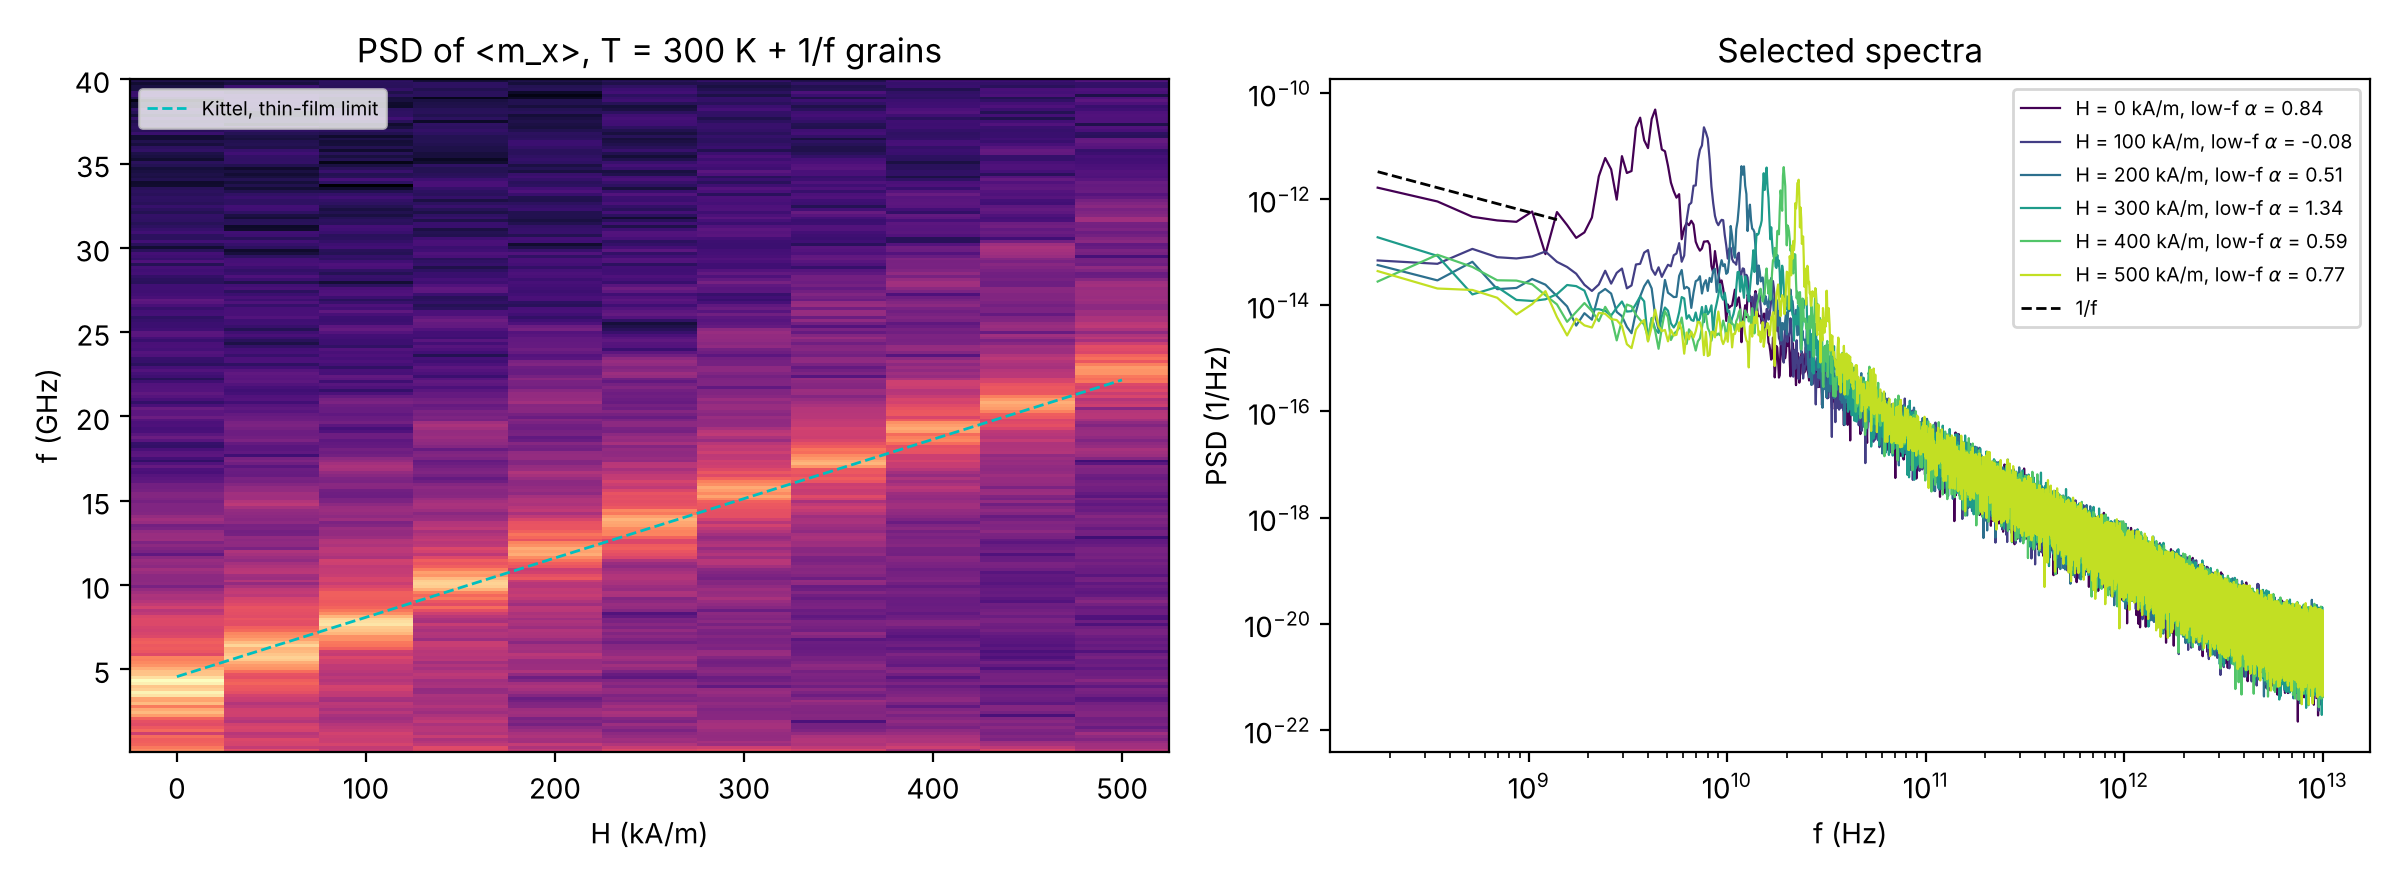
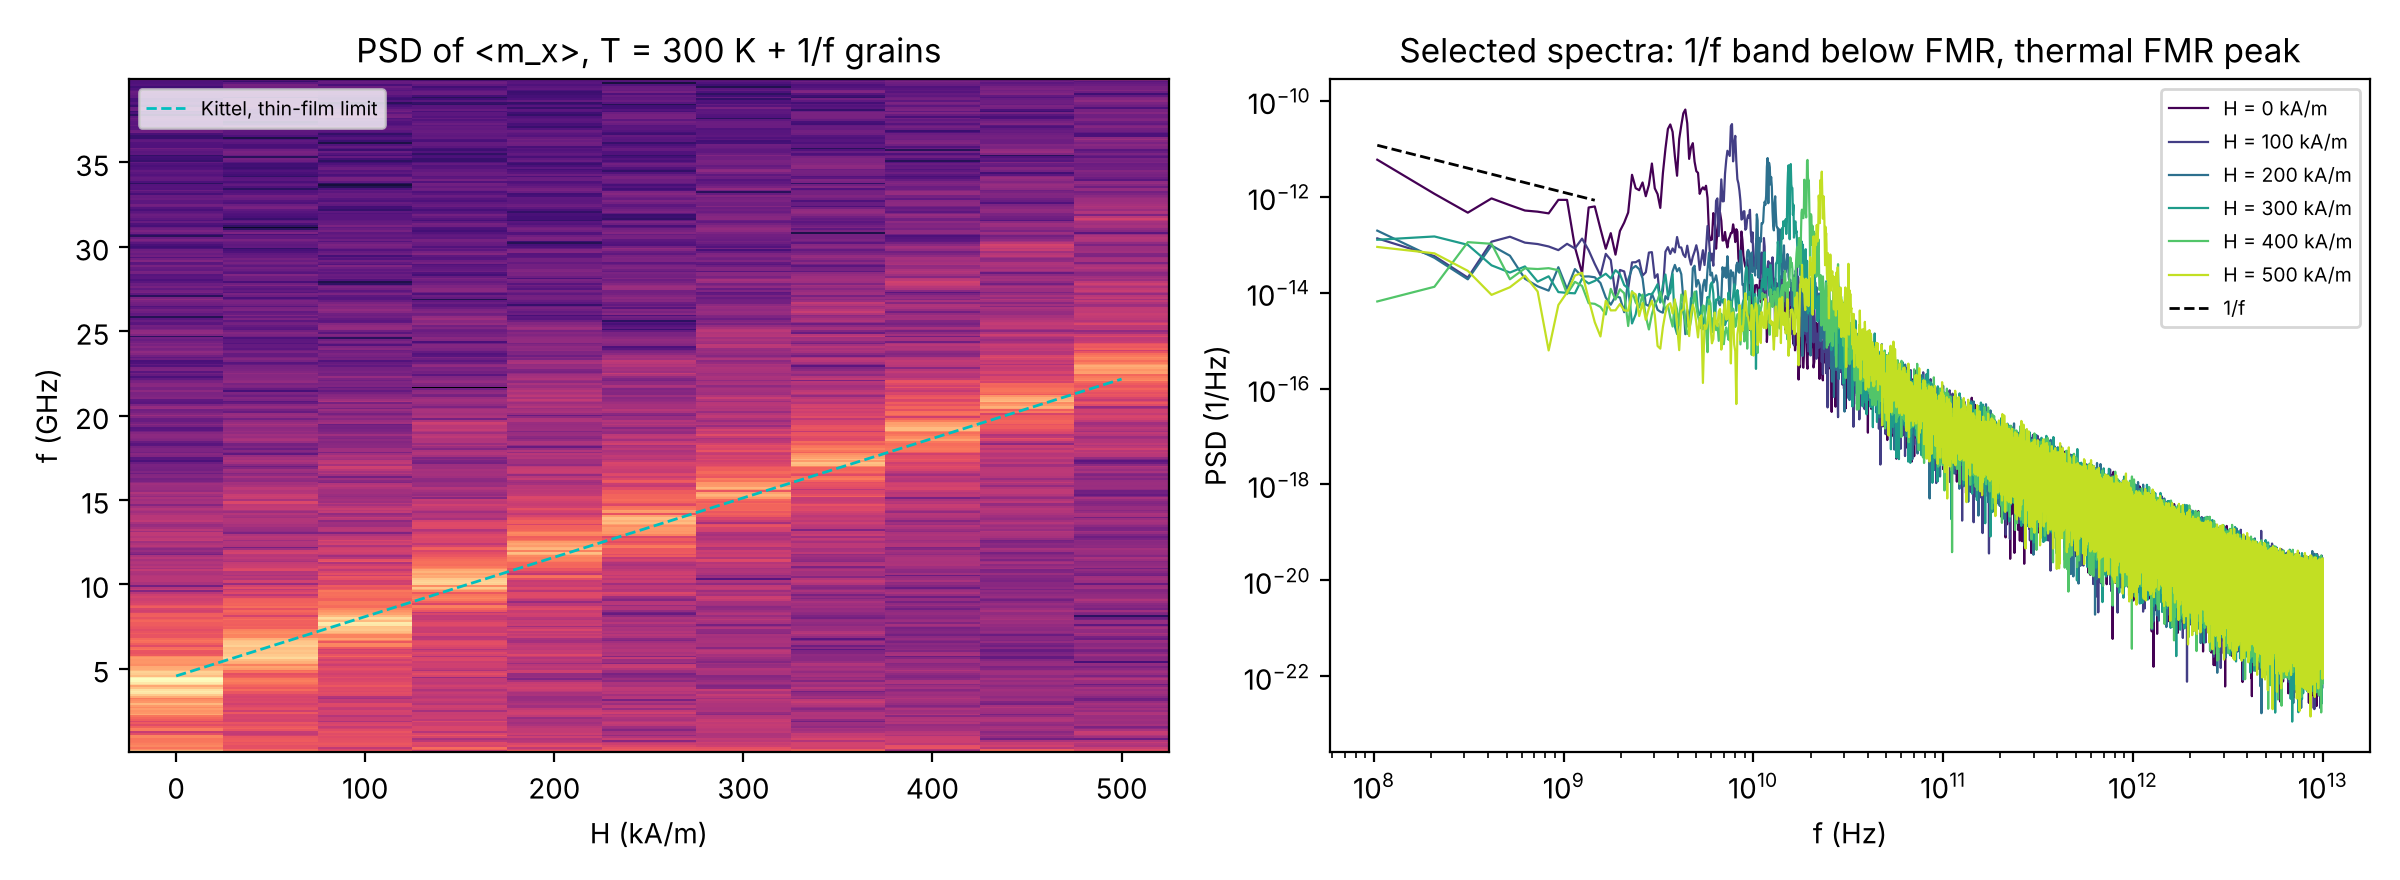
Curated examples: README with timings, rerun figures with final labels
Claude-Session: https://claude.ai/code/session_01LtGkJPcfeRPtRdhtcgikua

diff --git a/examples/curated/README.md b/examples/curated/README.md
@@ -1,0 +1,40 @@
+# Curated examples
+
+Micromagnetic counterparts of the [cmtj curated examples](https://github.com/LemurPwned/cmtj/tree/master/curated-examples),
+focused on noise and spectra. Run from this directory, e.g. `python fmr_basic.py`.
+Figures are written to `figures/`, wall times to `figures/timings.json`.
+
+| example | cmtj counterpart | what it shows |
+| --- | --- | --- |
+| `noise_spectra.py` | `cmtj.models.noise` plots | PSD (with fitted exponent), autocorrelation and traces of every 1/f generator |
+| `seeded_noise_demo.py` | `seeded-noise-demo.py` | same seed gives a bit-identical thermal + 1/f trajectory |
+| `fmr_basic.py` | `fmr-basic.py` | pulse-excited FMR field scan of a PMA element with hysteresis (relax + RK45) |
+| `noise_spectrogram.py` | (new) | spectra driven only by thermal + 1/f grain noise vs field (stochastic Heun); the thermal FMR line follows Kittel, the 1/f band (fit α = 1.02 at H = 0) is pushed under the thermal floor as the field stiffens m |
+
+![noise spectra](figures/noise-spectra.png)
+![seeded noise](figures/seeded-noise-demo.png)
+![fmr](figures/fmr-basic.png)
+![noise spectrogram](figures/noise-spectrogram.png)
+
+## Timings
+
+| example | mesh | work | solver | wall time |
+| --- | --- | --- | --- | --- |
+| noise_spectra | - | 1,048,576 samples x 6 generators | - | 2.53 s |
+| seeded_noise_demo | 16x16x1 | 3 runs x 0.5 ns (15,000 steps) | heun | 3.39 s |
+| fmr_basic | 16x16x1 | 41 fields x 4 ns (327,954 RK45 steps) | relax + rk45 | 213.38 s |
+| noise_spectrogram | 16x16x1 | 11 fields x 16 ns (3,520,000 steps) | heun (dt = 50 fs) | 857.07 s |
+
+Generator throughput (16 channels per tick):
+
+| generator | M samples/s |
+| --- | --- |
+| Kasdin buffered, α=1 | 8.31 |
+| OU sum, α=0.5 | 2.79 |
+| OU sum, α=1 | 2.81 |
+| OU sum, α=1.5 | 2.72 |
+| OneF (cmtj), 20 sources | 1.12 |
+| VectorAlpha x-comp, α=1 | 3.16 |
+
+Measured on a 4-core cloud container (numba parallel + scipy.fft workers).
+
